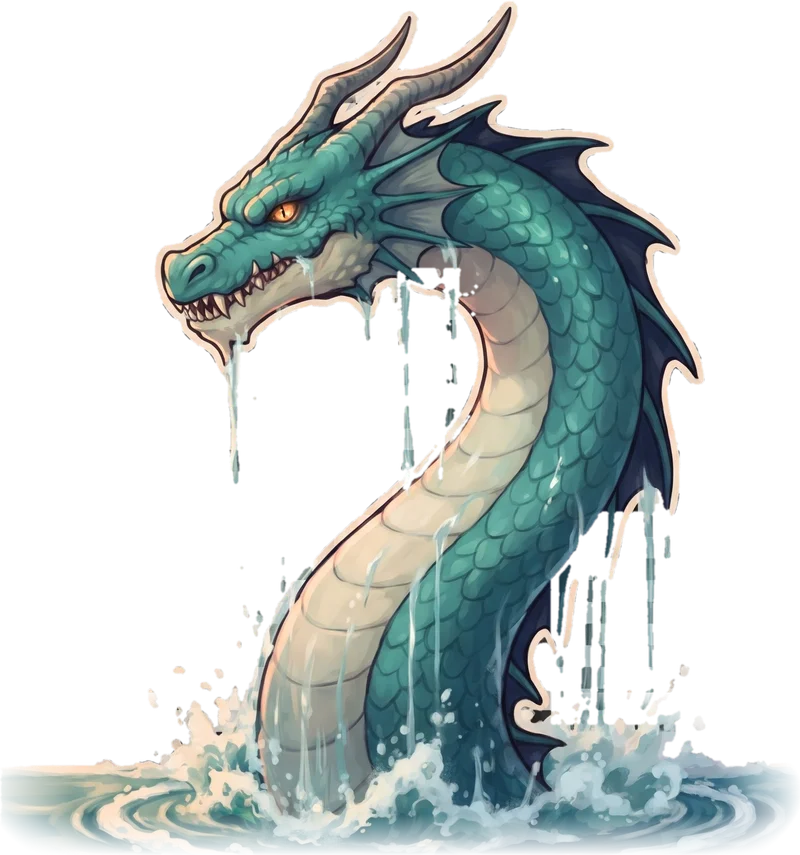
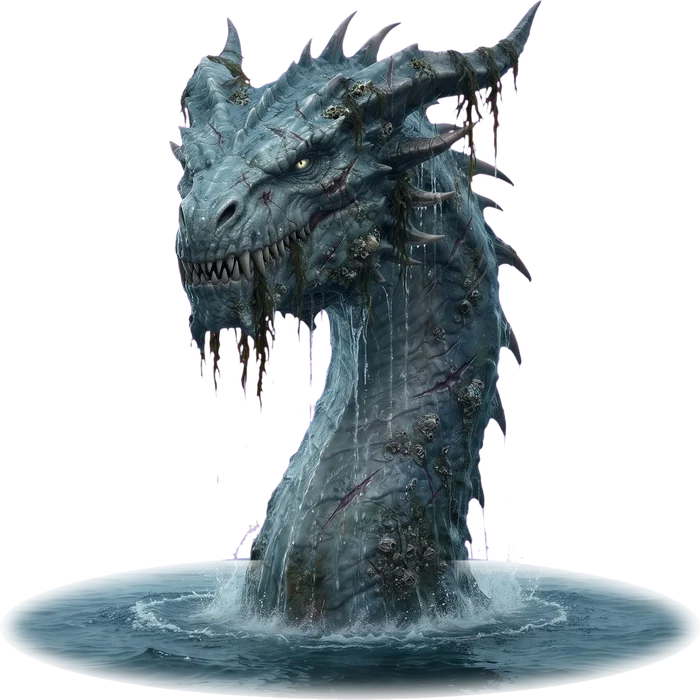
Морской король на палубе: реалистичная картинка, меньше, не вылезает за край; версия N68
Claude-Session: https://claude.ai/code/session_01Wp5NtVv8pXpMrxJKbY95Me

diff --git a/gl-new.html b/gl-new.html
@@ -1448,7 +1448,7 @@ body.tutor #app{padding-top:110px}
 #deck .dkgo i{font-style:normal;font-size:20px}#deck .dkgo b{color:#ffe08a;font-size:14px}
 #deck .dkgo.dis{opacity:.45;cursor:not-allowed}
 
-#deck .dkmon .sk{position:absolute;left:50%;bottom:-8%;width:170%;max-width:none;transform:translateX(-50%);transform-origin:50% 100%;animation:dkskb 4.2s ease-in-out infinite;filter:drop-shadow(0 4px 6px rgba(0,0,0,.55));z-index:1}
+#deck .dkmon .sk{position:absolute;left:50%;bottom:-10%;width:122%;max-width:none;transform:translateX(-50%);transform-origin:50% 100%;animation:dkskb 4.2s ease-in-out infinite;filter:drop-shadow(0 4px 6px rgba(0,0,0,.55));z-index:1}
 @keyframes dkskb{0%,100%{transform:translateX(-50%) translateY(0) rotate(-1deg)}50%{transform:translateX(-50%) translateY(-5px) rotate(1deg)}}
 #deck .dkmon.hasimg svg{visibility:hidden}#deck .dkmon.hasimg>i{display:none}
 #deck .dki.mk{filter:drop-shadow(0 0 7px rgba(255,70,50,.95)) drop-shadow(0 0 16px rgba(255,40,30,.6))}
@@ -1582,7 +1582,7 @@ body.dkon .tp-m .tm-od{display:none}
 #cardfx .cfrow{gap:14px}
 body.fxchain #dicefx,body.fxchain #cardfx,body.fxchain #evfx{background:rgba(10,14,18,.88)!important;backdrop-filter:blur(10px)!important;-webkit-backdrop-filter:blur(10px)!important}
 </style>
-<div id="app"><div id="top"></div><div id="now"></div><main><section id="mapwrap"><button class="btn pvz" id="mapz" data-mapz></button><button class="btn" id="mapdk" data-dkon>⛵ Палуба</button><button class="btn" id="mapme" data-mapme style="margin:0 0 6px 6px;padding:4px 10px;font-size:13px">📍 Где я</button><button class="btn" id="maplg" data-maplg aria-expanded="false">ℹ Легенда</button><div id="mapscroll"><svg id="map" viewBox="8 106 1572 860" role="img" aria-label="Игровое поле"></svg></div><div class="legend" id="legend"></div><div id="toasts" aria-live="polite"></div></section><aside id="side"></aside></main></div><div id="ver" title="Новая версия">N67</div><nav id="bnav" aria-label="Разделы"><button data-go="#mapwrap"><svg viewBox="0 0 24 24" aria-hidden="true"><path d="M3 6l6-2 6 2 6-2v14l-6 2-6-2-6 2zM9 4v14M15 6v14"/></svg><span>Карта</span></button><button data-go=".pr1"><svg viewBox="0 0 24 24" aria-hidden="true"><path d="M8 5l11 7-11 7z"/></svg><span>Действия</span></button><button data-go=".pr2"><svg viewBox="0 0 24 24" aria-hidden="true"><rect x="5" y="4" width="10" height="14" rx="2"/><path d="M9 20h8a2 2 0 0 0 2-2V8"/></svg><span>Инвентарь</span></button><button data-go=".pr3"><svg viewBox="0 0 24 24" aria-hidden="true"><circle cx="9" cy="9" r="3"/><circle cx="17" cy="10" r="2.4"/><path d="M3 19c0-3 2.7-5 6-5s6 2 6 5M15 15.5c3 0 6 1 6 3.5"/></svg><span>Игроки</span></button><button data-go=".pr4"><svg viewBox="0 0 24 24" aria-hidden="true"><path d="M6 4h12v16H6zM9 9h6M9 13h6M9 17h3"/></svg><span>Журнал</span></button></nav>
+<div id="app"><div id="top"></div><div id="now"></div><main><section id="mapwrap"><button class="btn pvz" id="mapz" data-mapz></button><button class="btn" id="mapdk" data-dkon>⛵ Палуба</button><button class="btn" id="mapme" data-mapme style="margin:0 0 6px 6px;padding:4px 10px;font-size:13px">📍 Где я</button><button class="btn" id="maplg" data-maplg aria-expanded="false">ℹ Легенда</button><div id="mapscroll"><svg id="map" viewBox="8 106 1572 860" role="img" aria-label="Игровое поле"></svg></div><div class="legend" id="legend"></div><div id="toasts" aria-live="polite"></div></section><aside id="side"></aside></main></div><div id="ver" title="Новая версия">N68</div><nav id="bnav" aria-label="Разделы"><button data-go="#mapwrap"><svg viewBox="0 0 24 24" aria-hidden="true"><path d="M3 6l6-2 6 2 6-2v14l-6 2-6-2-6 2zM9 4v14M15 6v14"/></svg><span>Карта</span></button><button data-go=".pr1"><svg viewBox="0 0 24 24" aria-hidden="true"><path d="M8 5l11 7-11 7z"/></svg><span>Действия</span></button><button data-go=".pr2"><svg viewBox="0 0 24 24" aria-hidden="true"><rect x="5" y="4" width="10" height="14" rx="2"/><path d="M9 20h8a2 2 0 0 0 2-2V8"/></svg><span>Инвентарь</span></button><button data-go=".pr3"><svg viewBox="0 0 24 24" aria-hidden="true"><circle cx="9" cy="9" r="3"/><circle cx="17" cy="10" r="2.4"/><path d="M3 19c0-3 2.7-5 6-5s6 2 6 5M15 15.5c3 0 6 1 6 3.5"/></svg><span>Игроки</span></button><button data-go=".pr4"><svg viewBox="0 0 24 24" aria-hidden="true"><path d="M6 4h12v16H6zM9 9h6M9 13h6M9 17h3"/></svg><span>Журнал</span></button></nav>
 <div id="modal"></div>
 <script src="assets/duel-scene.js?v=21"></script>
 <script>
@@ -5276,7 +5276,7 @@ function dkRender(){
   for(const o of isl){const a=dkArt(o.id),L=dkLabel(o.id,o.far&&!SKY.has(o.id)),pk=picks.includes(o.id)&&mine;
     if(SKY.has(o.id))L.sub=(L.sub&&L.sub!=='Неизвестно'?L.sub+' · ':'')+'☁ перелёт';
     if(outAt(o.id)){L.top+=' 🏰'}
-    if(G.monster&&G.monster.loc===o.id){L.top+=' 🐉';const mw=Math.max(44,o.w*0.78);h+='<div class="dkmon" style="left:'+(o.cx-mw*0.5).toFixed(0)+'px;top:'+(o.y-mw*0.34).toFixed(0)+'px;width:'+mw.toFixed(0)+'px"><u class="rg"></u><img class="sk" src="assets/deck/seaking.webp" alt="" onload="this.parentNode.classList.add(\'hasimg\')" onerror="this.remove()"><i></i><i style="animation-delay:-1.2s"></i><svg viewBox="0 0 120 60"><g class="fin"><path d="M10 56 Q22 20 46 4 Q42 32 62 56Z" fill="#1f6f86" stroke="#6fd0d8" stroke-width="1.5"/><path d="M46 4 L40 18 M46 4 L52 20" stroke="#6fd0d8" stroke-width="1.5" fill="none"/></g><g class="fin f2"><path d="M70 56 Q80 34 96 26 Q94 44 108 56Z" fill="#1f6f86" stroke="#6fd0d8" stroke-width="1.5"/></g></svg><b>!</b></div>'}
+    if(G.monster&&G.monster.loc===o.id){L.top+=' 🐉';const mw=Math.max(44,o.w*0.78),mcx=Math.min(W-mw*0.64-3,Math.max(mw*0.64+3,o.cx));h+='<div class="dkmon" style="left:'+(mcx-mw*0.5).toFixed(0)+'px;top:'+(o.y-mw*0.34).toFixed(0)+'px;width:'+mw.toFixed(0)+'px"><u class="rg"></u><img class="sk" src="assets/deck/seaking.webp" alt="" onload="this.parentNode.classList.add(\'hasimg\')" onerror="this.remove()"><i></i><i style="animation-delay:-1.2s"></i><svg viewBox="0 0 120 60"><g class="fin"><path d="M10 56 Q22 20 46 4 Q42 32 62 56Z" fill="#1f6f86" stroke="#6fd0d8" stroke-width="1.5"/><path d="M46 4 L40 18 M46 4 L52 20" stroke="#6fd0d8" stroke-width="1.5" fill="none"/></g><g class="fin f2"><path d="M70 56 Q80 34 96 26 Q94 44 108 56Z" fill="#1f6f86" stroke="#6fd0d8" stroke-width="1.5"/></g></svg><b>!</b></div>'}
     if(a==='battle')for(let k=0;k<3;k++)h+='<i class="dksmoke" style="left:'+(o.cx+o.w*(k*0.12-0.08)).toFixed(0)+'px;top:'+(o.ty+o.ih*0.2).toFixed(0)+'px;animation-delay:-'+(k*1.6).toFixed(1)+'s"></i>';
     if(a==='port')h+='<i class="dklamp" style="left:'+(o.cx-o.w*0.17).toFixed(0)+'px;top:'+(o.ty+o.ih*0.04).toFixed(0)+'px"></i>';
     if(a==='pon')h+='<i class="dkglow" style="left:'+(o.cx-o.w*0.2).toFixed(0)+'px;top:'+(o.ty+o.ih*0.3).toFixed(0)+'px;width:'+(o.w*0.36).toFixed(0)+'px;height:'+(o.ih*0.45).toFixed(0)+'px"></i>';
